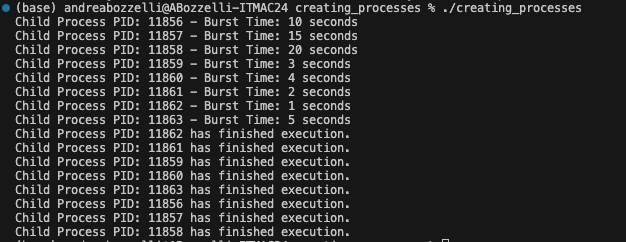
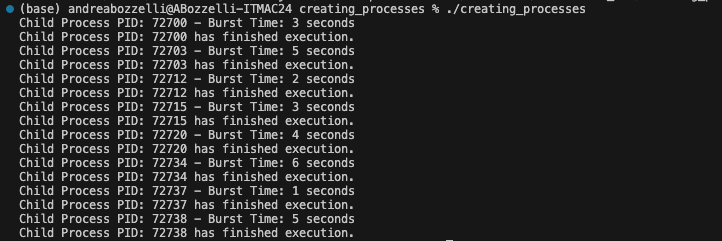
fix: switch from async processes to sync

Changed region(s): [[0.0, 0.0, 0.9409, 1.0], [0.6981, 0.9876, 0.7284, 1.0], [0.607, 0.9876, 0.6374, 1.0]]

diff --git a/creating_processes/creating_processes.c b/creating_processes/creating_processes.c
@@ -21,7 +21,7 @@
 int main()
 {
     // Array of burst times
-    int burst_times[] = {10, 15, 20, 3, 4, 2, 1, 5};
+    int burst_times[] = {3, 5, 2, 3, 4, 6, 1, 5};
     // Lenght of the array
     int num_processes = sizeof(burst_times) / sizeof(int);
 
@@ -45,14 +45,12 @@ int main()
             sleep(burst_times[i]);
             exit(EXIT_SUCCESS);
         }
-    }
-
-    // Parent process waits for all child processes
-    for (int i = 0; i < num_processes; i++)
-    {
-        // Wait child process completed
-        pid_t completed_pid = wait(NULL);
-        printf("Child Process PID: %d has finished execution.\n", completed_pid);
+        else
+        {
+            // Parent process - wait for the current child to complete
+            pid_t completed_pid = wait(NULL);
+            printf("Child Process PID: %d has finished execution.\n", completed_pid);
+        }
     }
 
     return 0;
